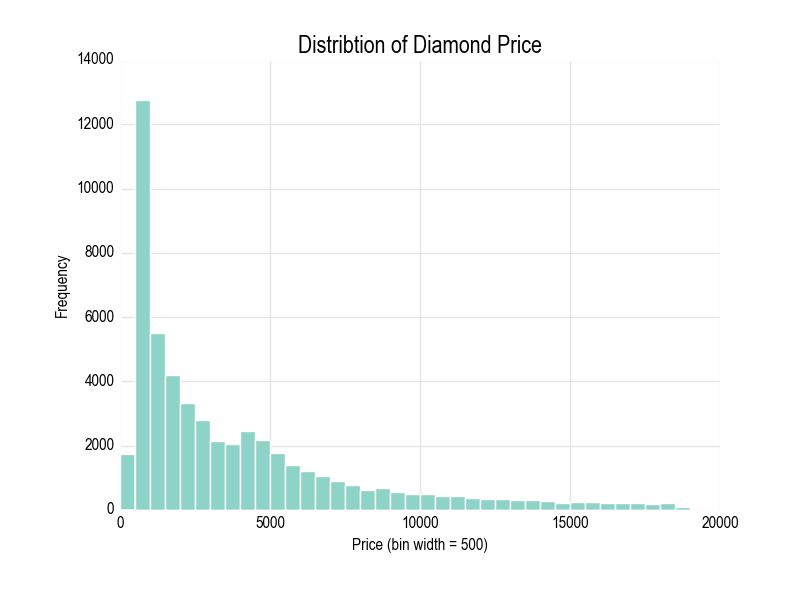
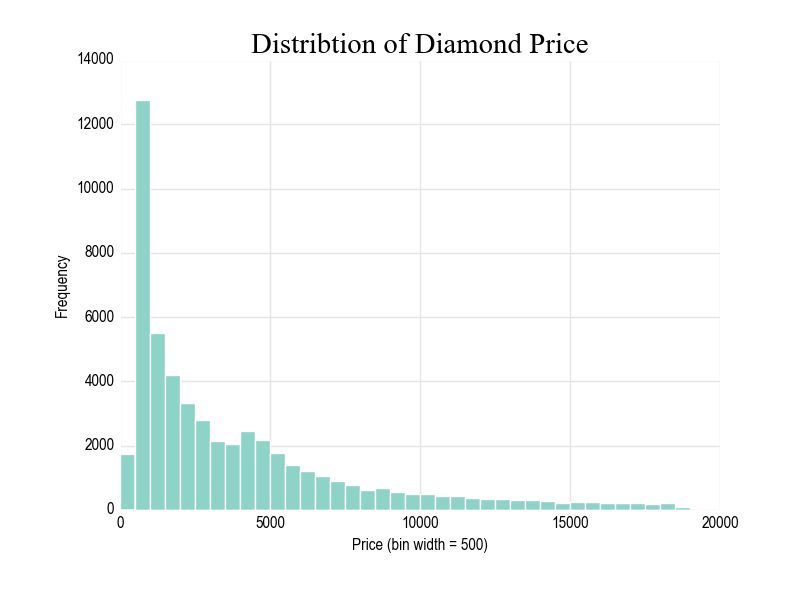
Better handling of theme and title font. Full support for font family chain

Changed region(s): [[0.3125, 0.06, 0.75, 0.09]]

diff --git a/examples/diamonds/histogram_1.py b/examples/diamonds/histogram_1.py
@@ -4,24 +4,24 @@ import pandas as pd
 import matplotlib
 import matplotlib.pyplot as plt
 
-import mmviz_utils
+import mmviz
 
-matplotlib.style.use("mmviz")
+mmviz.theme_mm("histogram")
 
 df = pd.read_csv("../data/diamonds.csv")
 
 bin_width = 500
-bins = mmviz_utils.create_bin_list(df['price'], bin_width)
+bins = mmviz.create_bin_list(df['price'], bin_width)
 
 df = df.pivot(columns='cut', values="price")
-df.plot.hist(stacked=True, bins=bins)
+ax = df.plot.hist(stacked=True, bins=bins)
+ax.set_title("Distribtion of Diamond Price by Cut", fontproperties=mmviz.TITLE_FONT_PROPERTIES)
 
-mmviz_utils.place_legend(plt, "Cut", 0.2)
-
-plt.title("Distribtion of Diamond Price by Cut")
 plt.xlabel("Price (bin width = 500)")
 
-plt.savefig("./images/histogram_1")
+mmviz.place_legend(plt, "Cut", 0.2)
+
+plt.savefig("./images/histogram_1", dpi=100)
 plt.show()
 
 

diff --git a/mmviz.py b/mmviz.py
@@ -1,4 +1,13 @@
 import matplotlib
+import matplotlib.pyplot as plt
+from matplotlib.font_manager import FontProperties
+
+MMVIZ_BRAND_FONT_SERIF = ["Times", "Times New Roman", "serif"]
+MMVIZ_BRAND_FONT_SANS_SERIF = ["Univers 47 Condensed Light", "Univers 57 Condensed", "Arial Narrow", "Arial", "sans-serif"]
+
+TITLE_FONT_PROPERTIES = FontProperties()
+TITLE_FONT_PROPERTIES.set_family(MMVIZ_BRAND_FONT_SERIF)
+TITLE_FONT_PROPERTIES.set_size("xx-large")
 
 # create bin list based on values list and bin_width
 def create_bin_list(values, bin_width = 30):
@@ -20,6 +29,10 @@ def place_legend(plt, title, width = 0.2) :
 
 
 def theme_mm(chart_type = "default") :
+
+    matplotlib.style.use("mmviz")
+
+    # plt.title("", fontname="Times New Roman")
 
     if chart_type == "bar" :
         matplotlib.rc('lines', linewidth=2, color='r')

diff --git a/examples/diamonds/bar_1.py b/examples/diamonds/bar_1.py
@@ -4,20 +4,20 @@ import pandas as pd
 import matplotlib
 import matplotlib.pyplot as plt
 
-import mmviz_utils
+import mmviz
 
-matplotlib.style.use("mmviz")
+mmviz.theme_mm("bar")
 
 df = pd.read_csv("../data/diamonds.csv")
-
 df1 = df.groupby(['clarity', 'cut'])['price'].count().reset_index().pivot(index='clarity', columns='cut', values="price")
-df1.plot.bar(stacked = True, rot=0)
 
-mmviz_utils.place_legend(plt, "Cut", 0.2)
+ax = df1.plot.bar(stacked = True, rot=0)
+ax.set_title("Diamonds by Clarity and Cut", fontproperties=mmviz.TITLE_FONT_PROPERTIES)
 
 plt.xlabel("Clarity")
 plt.ylabel("Frequency")
-plt.title("Diamonds by Clarity and Cut")
 
-plt.savefig("./images/bar_1")
+mmviz.place_legend(plt, "Cut", 0.2)
+
+plt.savefig("./images/bar_1", dpi=100)
 plt.show()

diff --git a/examples/diamonds/histogram.py b/examples/diamonds/histogram.py
@@ -4,17 +4,18 @@ import pandas as pd
 import matplotlib
 import matplotlib.pyplot as plt
 
-import mmviz_utils
+import mmviz
 
-matplotlib.style.use("mmviz")
+mmviz.theme_mm("histogram")
 
 df = pd.read_csv("../data/diamonds.csv")
 
-bins = mmviz_utils.create_bin_list(df['price'], 500)
-df["price"].plot.hist(bins=bins)
+bins = mmviz.create_bin_list(df['price'], 500)
 
-plt.title("Distribtion of Diamond Price")
+ax = df["price"].plot.hist(bins=bins)
+ax.set_title("Distribtion of Diamond Price", fontproperties=mmviz.TITLE_FONT_PROPERTIES)
+
 plt.xlabel("Price (bin width = 500)")
 
-plt.savefig("./images/histogram")
+plt.savefig("./images/histogram", dpi=100)
 plt.show()

diff --git a/examples/diamonds/bar.py b/examples/diamonds/bar.py
@@ -4,21 +4,19 @@ import pandas as pd
 import matplotlib
 import matplotlib.pyplot as plt
 
-import mmviz_utils
+import mmviz
 
-matplotlib.style.use("mmviz")
-
-# mmviz_utils.theme_mm("bar")
+mmviz.theme_mm("bar")
 
 df = pd.read_csv("../data/diamonds.csv")
 df1 = df.groupby('clarity').size()
 df1.sort_values(ascending=False, inplace=True)
 
-df1.plot.bar(rot=0)
+ax = df1.plot.bar(rot=0)
+ax.set_title("Diamonds by Clarity", fontproperties=mmviz.TITLE_FONT_PROPERTIES)
 
 plt.xlabel("Clarity")
 plt.ylabel("Frequency")
-plt.title("Diamonds by Clarity")
 
-plt.savefig("./images/bar")
+plt.savefig("./images/bar", dpi=100)
 plt.show()

diff --git a/examples/diamonds/box_1.py b/examples/diamonds/box_1.py
@@ -4,16 +4,18 @@ import pandas as pd
 import matplotlib
 import matplotlib.pyplot as plt
 
-matplotlib.style.use("mmviz")
+import mmviz
+
+mmviz.theme_mm("box")
 
 df = pd.read_csv("../data/diamonds.csv")
-#print(df.head())
 
-df[['cut','price']].boxplot(by="cut", column = "price")
+ax = df[['cut','price']].boxplot(by="cut", column = "price")
+ax.set_title("Distribtion of Price by Cut", fontproperties=mmviz.TITLE_FONT_PROPERTIES)
 
 plt.xlabel("Cut")
 plt.ylabel("Price")
-plt.title("Distribtion of Price by Cut")
 
-plt.savefig("./images/box_1")
+plt.savefig("./images/box_1", dpi=100)
+
 plt.show()

diff --git a/examples/diamonds/box.py b/examples/diamonds/box.py
@@ -4,14 +4,16 @@ import pandas as pd
 import matplotlib
 import matplotlib.pyplot as plt
 
-matplotlib.style.use("mmviz")
+import mmviz
+
+mmviz.theme_mm("box")
 
 df = pd.read_csv("../data/diamonds.csv")
-df["price"].plot.box()
+ax = df["price"].plot.box()
+ax.set_title("Distribtion of Price", fontproperties=mmviz.TITLE_FONT_PROPERTIES)
 
 plt.xlabel("")
 plt.ylabel("Price")
-plt.title("Distribtion of Price")
 
-plt.savefig("./images/box")
+plt.savefig("./images/box", dpi=100)
 plt.show()

diff --git a/examples/diamonds/histogram_2.py b/examples/diamonds/histogram_2.py
@@ -4,6 +4,8 @@ import pandas as pd
 import matplotlib
 import matplotlib.pyplot as plt
 
-matplotlib.style.use("mmviz")
+import mmviz
+
+mmviz.theme_mm("histogram")
 
 df = pd.read_csv("../data/diamonds.csv")
